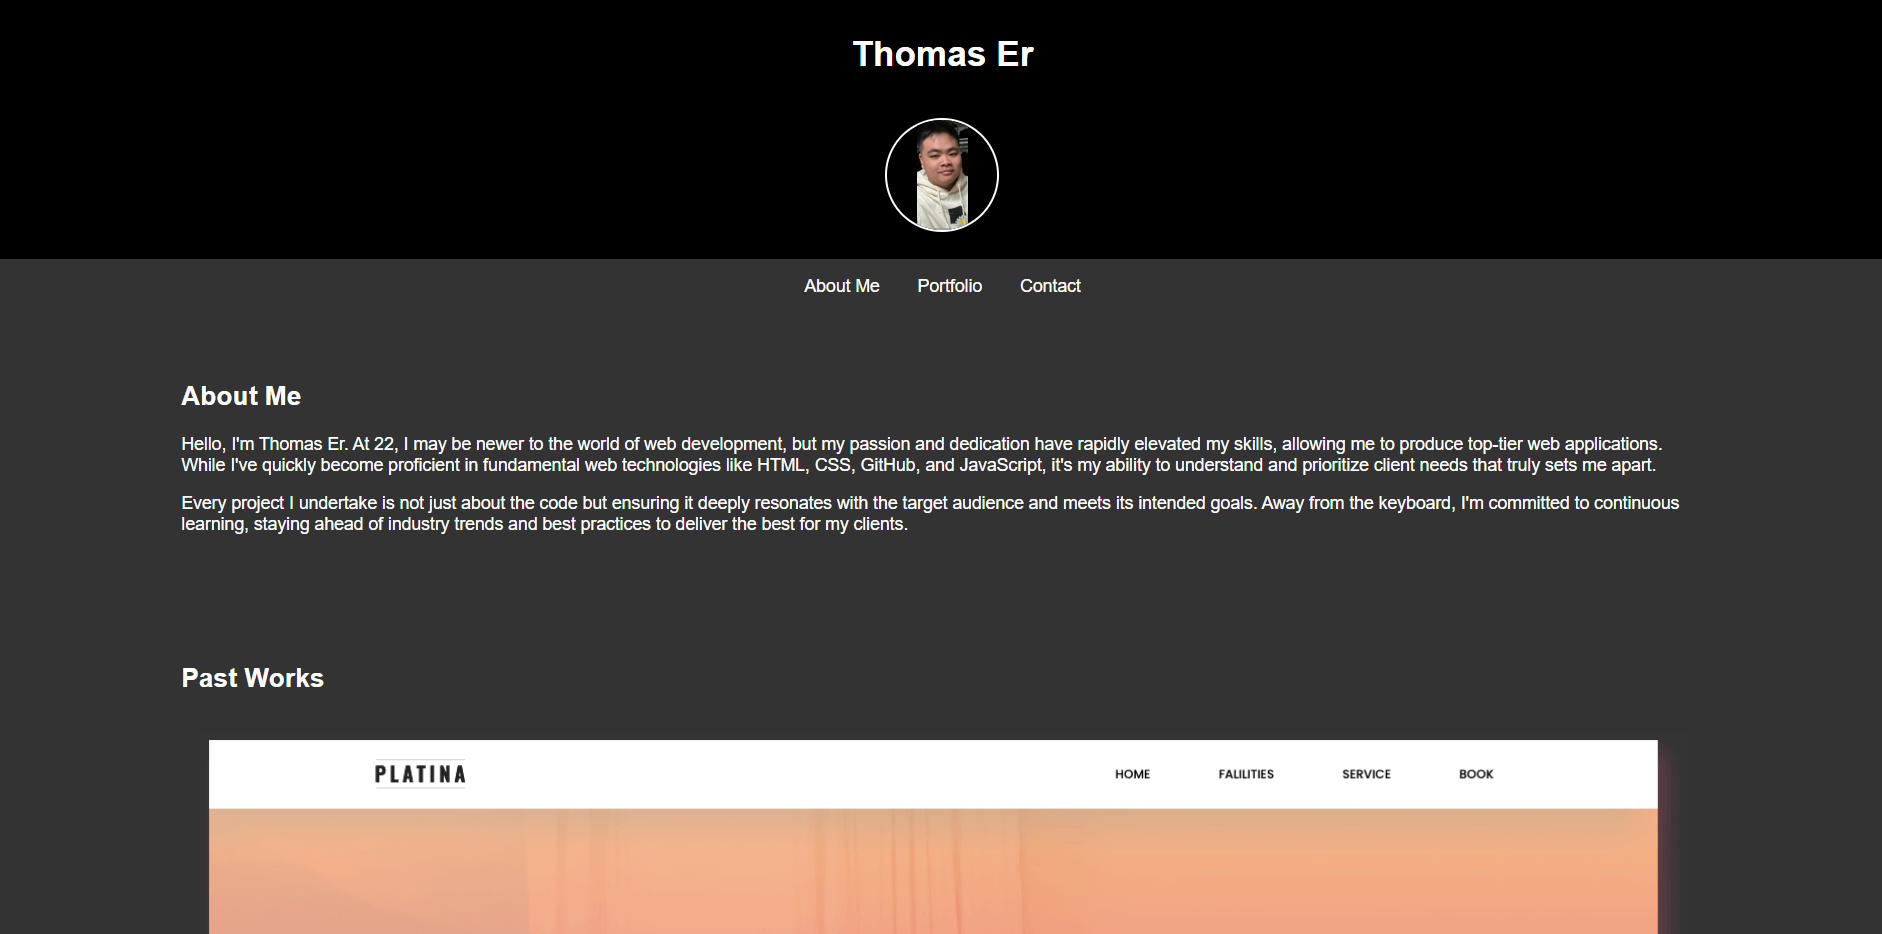
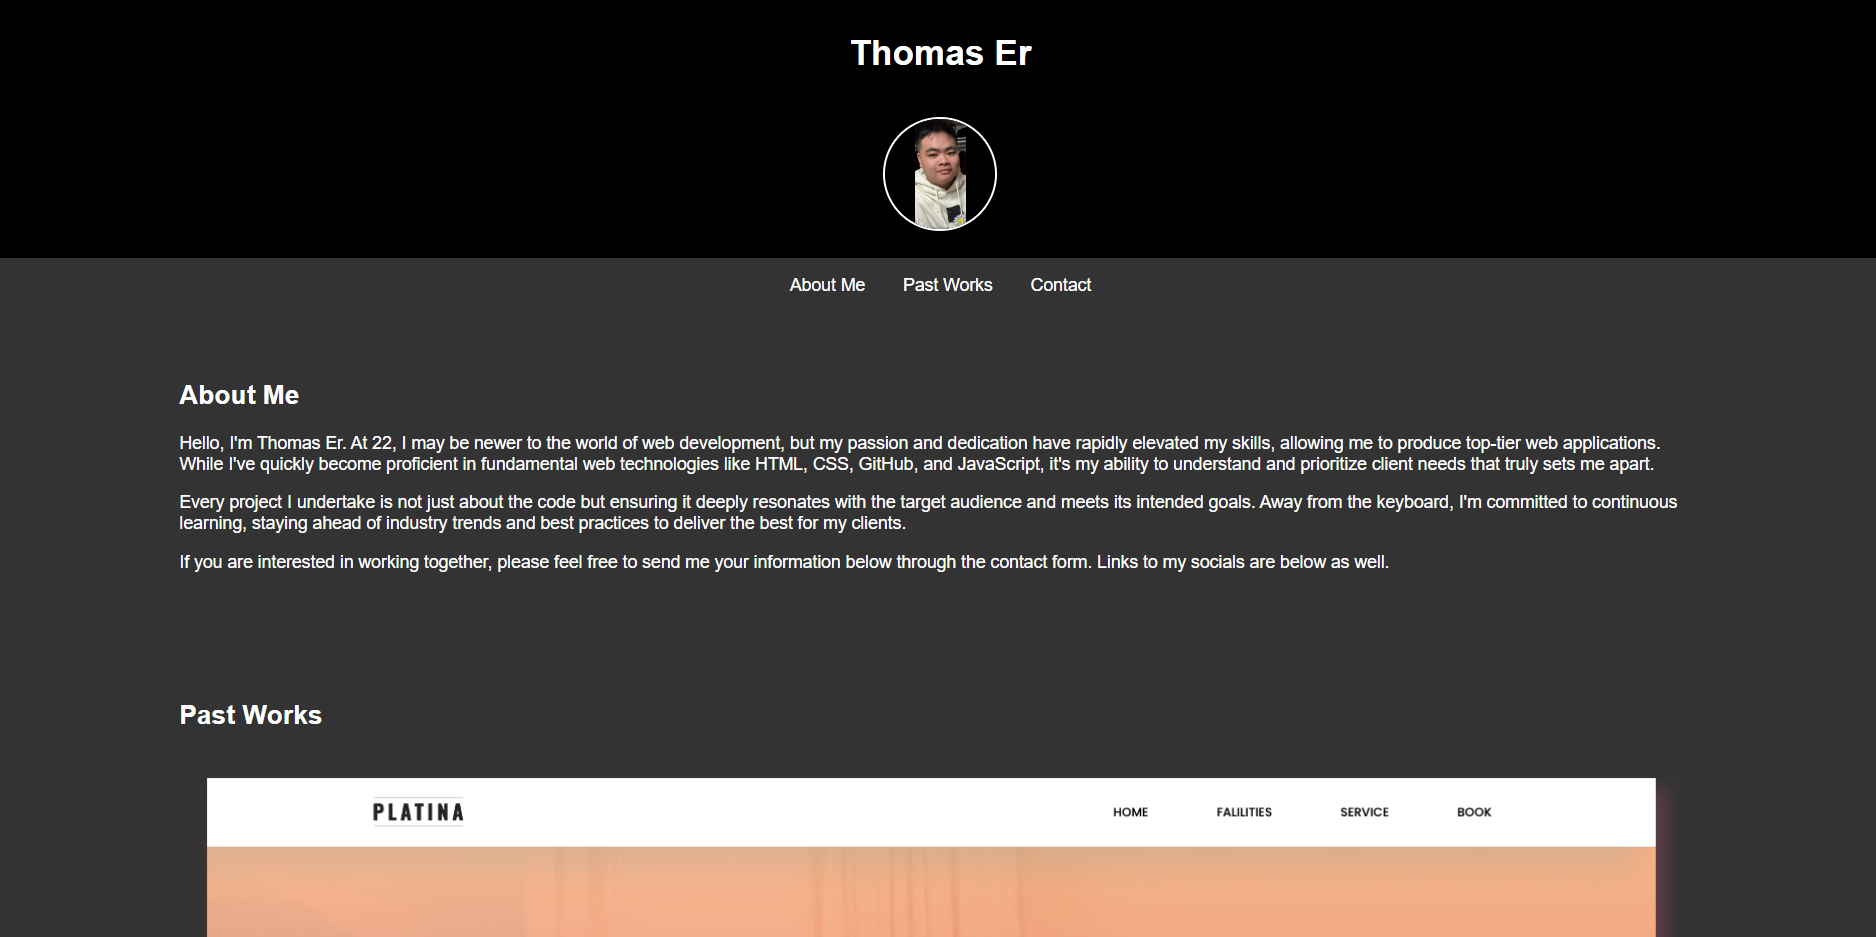
changes the nav so that it matched the headers, added a bit more to my about me so that people know to scroll down for my socials

diff --git a/index.html b/index.html
@@ -20,7 +20,7 @@
 <nav>
     <ul>
         <li><a href="#about-me">About Me</a></li>
-        <li><a href="#portfolio">Portfolio</a></li>
+        <li><a href="#portfolio">Past Works</a></li>
         <li><a href="#contact">Contact</a></li>
     </ul>
 </nav>
@@ -33,6 +33,7 @@
     <p>
         Every project I undertake is not just about the code but ensuring it deeply resonates with the target audience and meets its intended goals. Away from the keyboard, I'm committed to continuous learning, staying ahead of industry trends and best practices to deliver the best for my clients.
     </p>
+    <p>If you are interested in working together, please feel free to send me your information below through the contact form. Links to my socials are below as well.</p>
 </section>
 
 <section id="portfolio">
